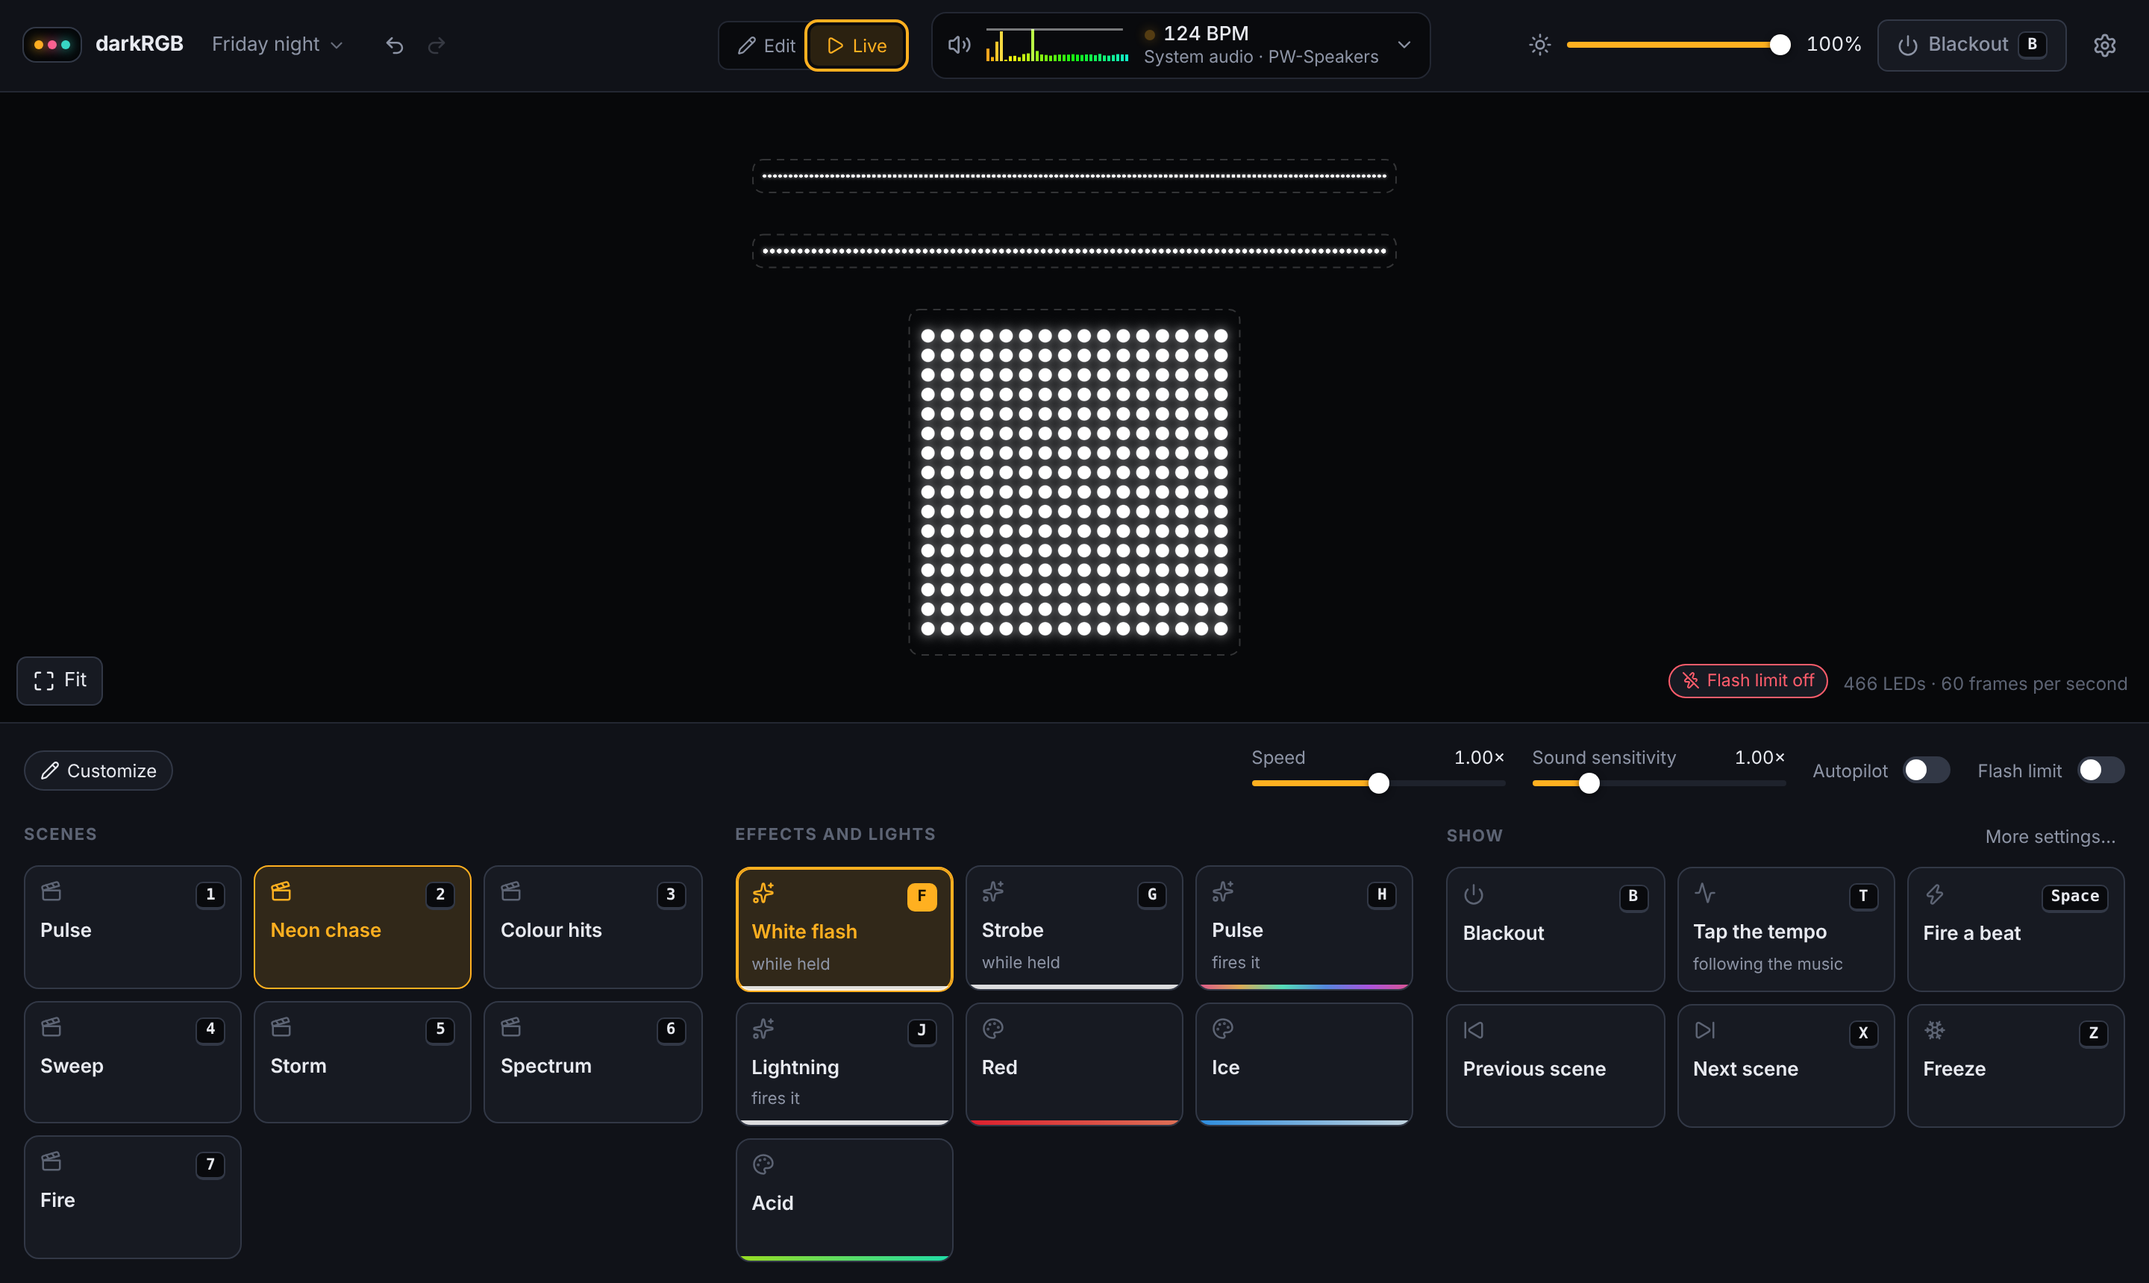
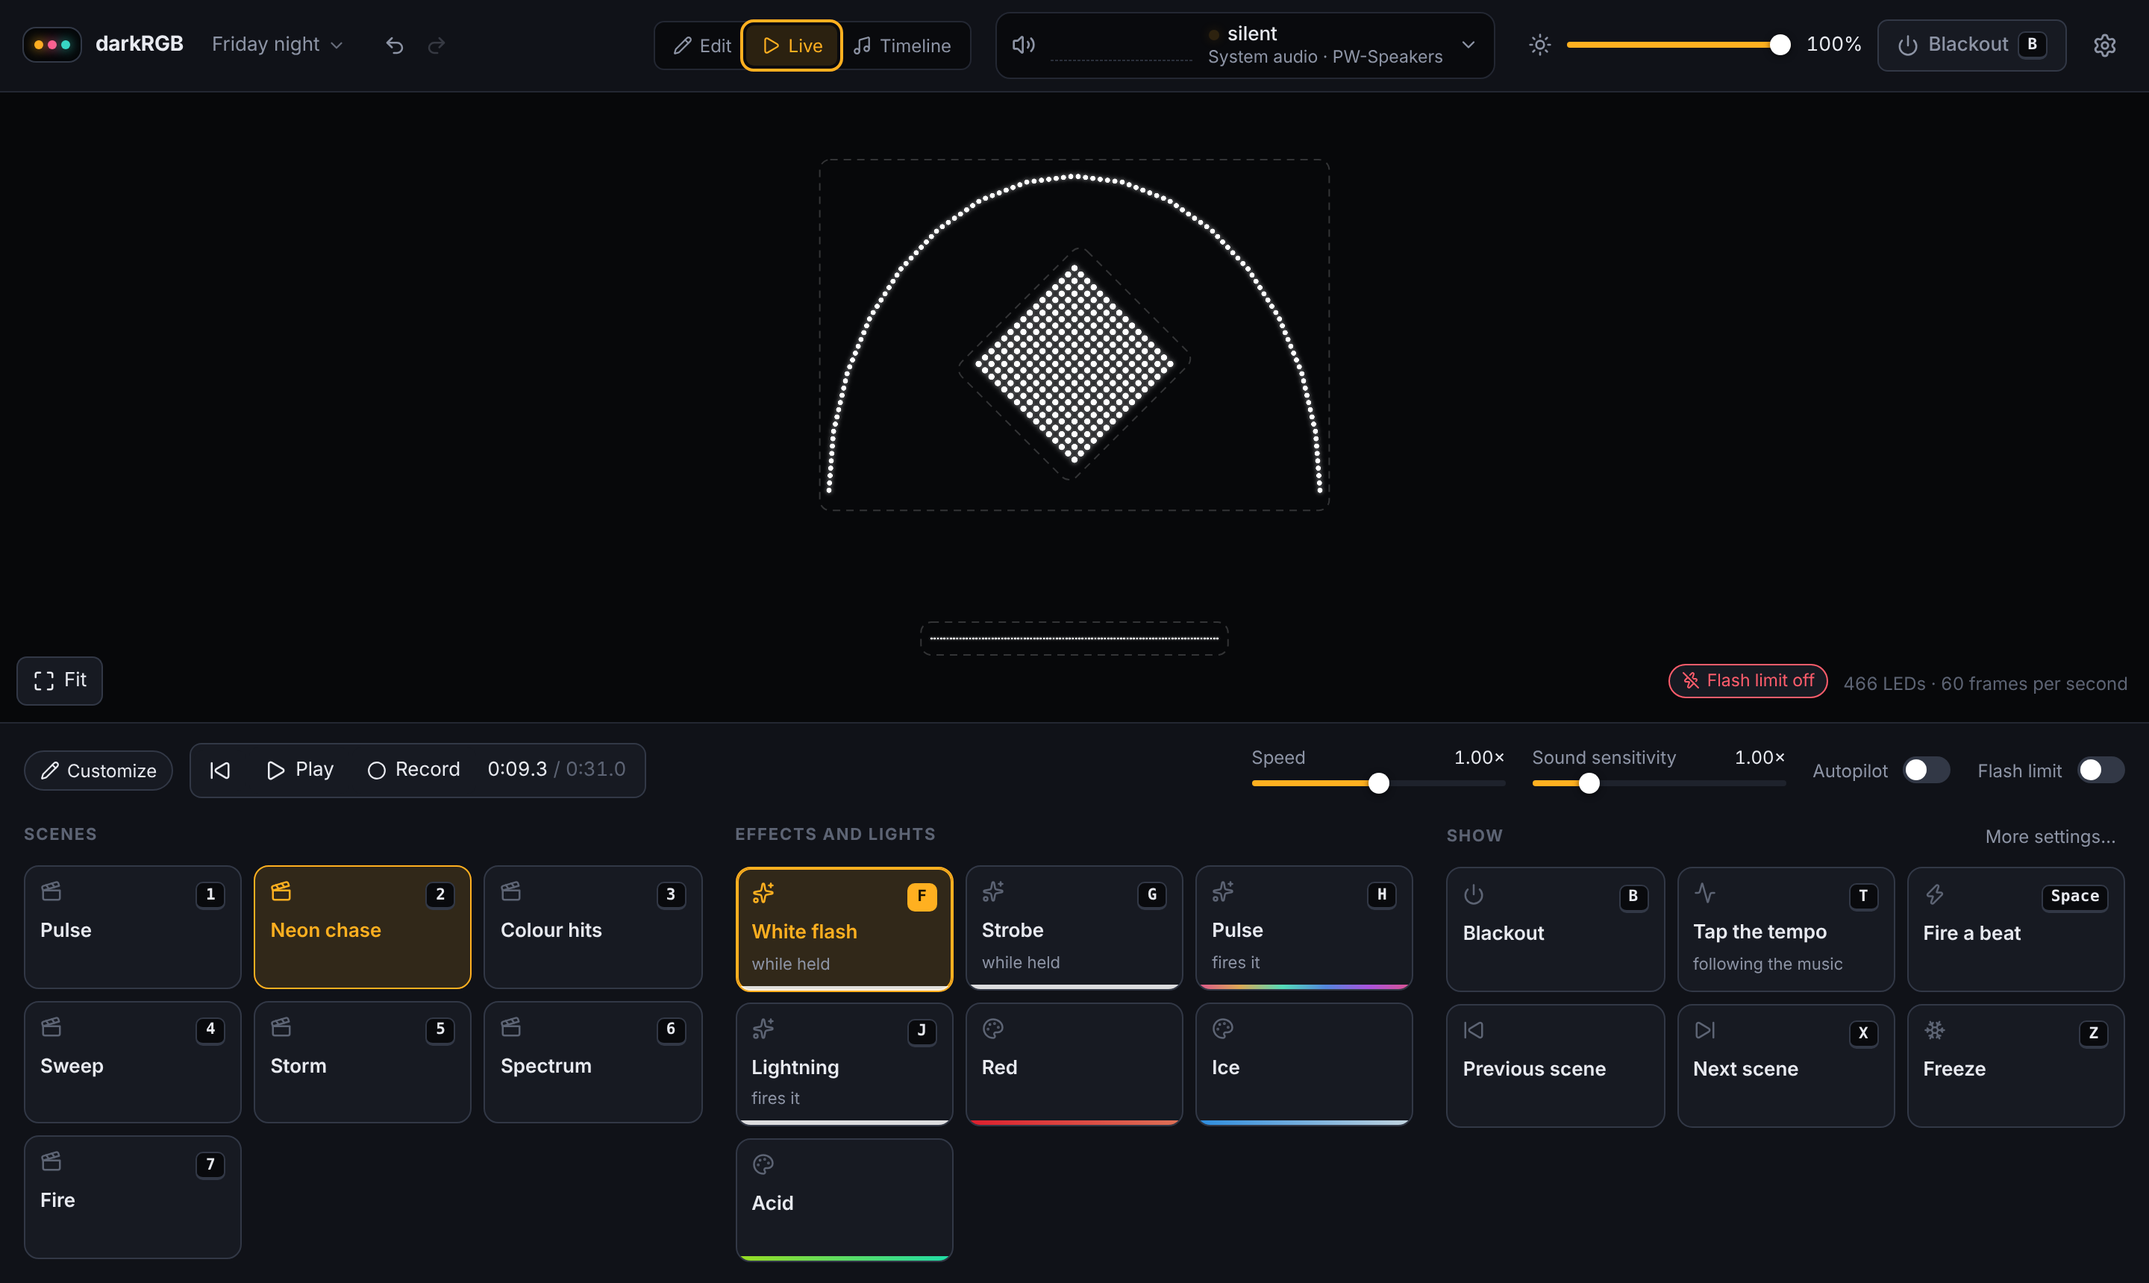
Docs for 0.7.0: timeline, shapes, turning patterns, the outside review

diff --git a/docs/architecture.md b/docs/architecture.md
@@ -85,7 +85,18 @@ Its speed on a real graphics card is not measured.
 - A **group of lights** collects fixtures under a name. A layer can target a group, so lights added to the
   group later are included; a group has its own brightness and on/off switch, applied after the layers are
   mixed. A fixture is in one group or none. Built.
+- A strip can be **bent** (`Fixture.path`): it passes through corners given as places in its box, from (0, 0)
+  to (1, 1), and its LEDs are spread evenly by distance along the line, which may close on itself. The box
+  resizes and turns like a matrix's. Drawn on each light by itself, an effect still runs along the strip;
+  drawn across the lights, it is drawn across the shape.
 - Effects render in layout space, so one effect can sweep across fixtures on different devices.
+- A layer's pattern can be **turned** (`Layer.angle`, `Layer.spin`, and a link to `angle`). The renderer
+  turns each light's place in the pattern about the middle and rescales, so the pattern's width and height
+  become the extent of the lights along the turned axes: every light still lands inside the pattern, and no
+  effect sees a place outside 0..1. A line of lights has one direction only and is left alone.
+- Drawn on each light by itself, a pattern on a matrix is turned back by as much as the matrix is turned on
+  the canvas, so it stays the right way up in the room: turning a matrix on the canvas says how it hangs.
+  `Layer.turns` gives the older behaviour, the pattern turning with the light.
 - The user never sees universe or channel numbers. The engine derives packets from the layout.
 
 ### Clips, layers and modulators
@@ -390,7 +401,7 @@ Built. One WebSocket per client at `/ws`; the engine also serves the UI over HTT
 | text `state` | The whole show, and which scene is playing unchanged. On connect and after every change. |
 | text `audio` | Audio features, 30 times a second. |
 | text `status` | Frame rate, whether the flash limit held anything back, per-device send counts, audio status, discovered devices. Once a second. |
-| text `live` | Pads being held, a scene waiting for the beat, the tapped tempo, whether the picture is frozen. On every change. |
+| text `live` | Pads being held, a scene waiting for the beat, the tapped tempo, whether the picture is frozen, and where the timeline is. On every change, and once a second while a timeline plays. |
 | text `library` | The shows on this computer and which is open; the effects, looks and palettes that have been kept. On connect and on change. |
 | text `result` | Outcome of a command that carried a request number, `req`, which it repeats. |
 | binary, first byte 1 | Preview colours: RGB per pixel, 30 times a second. |
@@ -405,9 +416,38 @@ needs no UI code.
 A command either changes the show or it does nothing: `commands::apply` works on a copy, checks the limits
 on the result, and only then swaps it in.
 
-One thing goes over plain HTTP: opening a show file (`POST /api/import`), because a whole show does not fit in
-a WebSocket message. It gets the same checks as a show file read from disk, and the same checks on who is
-asking, with the `Origin` header required.
+Two things go over plain HTTP because they do not fit in a WebSocket message. Opening a show file
+(`POST /api/import`) gets the same checks as a show file read from disk. A timeline's song goes up with
+`POST /api/song?name=...` and comes back with `GET /api/song/<file>`; the engine names the file after its
+contents and serves only names of that form, so the route cannot be made to read anything else. Both posts
+get the same checks on who is asking, with the `Origin` header required.
+
+### The timeline
+
+`Show.timeline` holds a song's name, a length, a beat grid (tempo and first beat) and **clips**. A scene clip
+says "from here, this scene"; a pad clip says "from here to there, this pad is held". There is no third
+kind: anything that can be played live can be written down, and nothing new had to be invented to play it
+back.
+
+- **Nothing remembers where playback is.** `Timeline::at(t)` answers "which scene, which pads?" from the
+  clips alone. Each frame the engine asks it and applies the answer in `Live::overlay`, exactly as it applies
+  held keys and the scene for silence: over a copy, leaving the saved show untouched. Starting anywhere,
+  jumping and repeating therefore need no special cases, and stopping gives the show back as it was.
+- A pad that sets something off (a fired effect, a beat by hand) does so on the frame its clip begins.
+- **The clock is the engine's** (`Transport` in `live.rs`), but the song is played by the app window, which
+  fetches it whole and plays it from memory. Four times a second the window says where the song is; a
+  difference of more than 30 ms moves the engine's clock. Sound being late is noticed and lights moving a
+  little are not, so the lights follow the sound. A jump the engine makes goes the other way: the window
+  moves the song. The engine hears the song through the same system-audio capture as any other music, so
+  reactive effects react to it.
+- **Recording** writes clips as things are played while the timeline runs. A held pad's clip grows until it
+  is let go. A pad that switches something is, while recording, on from one press to the next: it is not
+  really switched, or it would be switched twice over, once by the press and once by its own clip. A scene
+  chosen is written as a clip and shown by the timeline; the show underneath is not changed.
+- Clips go when their scene or pad goes (`Show::prune_bindings`).
+- The window draws the song's outline and guesses a tempo from it (`ui/src/songPlayer.ts`): how strongly
+  rises in loudness repeat at each spacing from 70 to 180 beats a minute. It is a starting point, with
+  halve, double and "beat here" beside it.
 
 ### Who may connect
 

diff --git a/docs/roadmap.md b/docs/roadmap.md
@@ -1,6 +1,6 @@
 # Roadmap
 
-Written on 2026-11-10, last updated 2026-11-12 for version 0.6.0. Order: audio-reactive first, then live control, then the timeline, then yard-scale
+Written on 2026-11-10, last updated 2026-11-12 for version 0.7.0. Order: audio-reactive first, then live control, then the timeline, then yard-scale
 features. The design targets room/desk setups (a few WLED devices, up to a few thousand pixels) and house/yard
 shows (many controllers, 5k to 50k pixels). See [architecture.md](architecture.md) for the design.
 
@@ -124,10 +124,31 @@ Done when a full song can be performed from the keyboard without touching the mo
 
 ## 3. Timeline
 
-- Import a song; show its waveform and an automatic beat grid.
-- Clips on layers with trim, move and snap to beats.
-- Curves on parameters.
-- Record a live performance into the timeline.
+Built in 0.7.0:
+
+- A song chosen from a file, kept by the engine, played by the app window; its outline drawn, and a tempo
+  and first beat guessed from it for a grid.
+- A lane for scenes and a lane for every pad. Clips are placed, moved, stretched, picked several at a time
+  and deleted, and snap to beats, halves or quarters.
+- Recording: scenes chosen and pads pressed while the timeline plays become clips.
+- Play, stop, jump, repeat. The engine works out what should be on from the clips alone each frame, so a
+  jump or a repeat needs nothing special.
+- The lights follow the song: the window playing it tells the engine where it is.
+
+Left:
+
+- Curves on settings (a slider drawn over time). Today a timeline can only say which scene shows and which
+  pads are held.
+- Seeing the look at the playhead while stopped. Today the timeline acts only while it plays.
+- Copy, paste and repeat of clips; a split tool; markers; more than one song in a show; a playlist.
+- Playing the song without the app window open (the engine does not decode sound itself), and so running a
+  timeline from a schedule with nobody there.
+- Exporting to `.fseq` for a Falcon Player.
+- The song's own start is where a person lines it up: there is no fine offset between song and lights
+  beyond the show's light delay.
+
+Tried with a 31-second synthetic song in a browser and in the app window on Linux. Not yet tried with real
+music, a long song, MP3 on a Linux system without the codecs, or on Windows.
 
 Done when a three-minute show can be recorded live, cleaned up in the editor and played back in sync.
 
@@ -143,6 +164,8 @@ Built:
 
 Left:
 
+- Strips bent into shapes (0.7.0 has arches, rings, stars, zigzags and hand-drawn paths; not yet matrices of
+  odd shapes, or a tree as one model).
 - Import an xLights layout.
 - Export `.fseq` v2 and upload to FPP.
 - 3D preview.
@@ -158,6 +181,38 @@ Left:
 - Ableton Link tempo sync.
 - Hue, OpenRGB and other device families.
 - macOS build.
+
+## An outside review of 0.6.0
+
+On 2026-11-12 an independent reviewer was given the repository and asked what keeps this from being a truly
+good audio-reactive and live tool. It could read everything and run nothing. Its ranked findings, and where
+each stands after 0.7.0:
+
+1. **The beat clock.** Lights are always a little late and nothing fires early to make up for it; bars are
+   counted from whenever listening began, not from beat one; when the music breaks down the tempo is lost
+   and every onset becomes a "beat"; the tracker can lock at double time; tap tempo replaces the music's
+   tempo and then drifts; there is no nudge, no halving or doubling, no beat display, no MIDI clock or
+   Ableton Link. **Not addressed. This is the first job of the next round.**
+2. **Effects and tempo.** Most speeds were in seconds, not beats; no mirror, repeat or kaleidoscope for any
+   effect; links have one wave shape and no smoothing; colour cannot be modulated; no pitch-to-colour; the
+   section detector judges by loudness alone and is reset by a short silence. *Partly addressed:* seven of
+   the eight new effects count in beats, and scanner, theatre chase (Marquee), breathe and falling peaks
+   were among the staples it named. The rest stands.
+3. **Nothing has met real hardware or real music.** Stands, and only the owner can change it.
+4. **The outdoor display audience was promised a timeline that did not exist,** and shapes were only straight
+   strips and rectangles. *Addressed in part:* 0.7.0 has a timeline and bent strips. Still missing: xLights
+   import, FSEQ export, a calendar, power limiting by current, colour orders and start channels for sACN.
+5. **The live model is shallow next to a console.** A scene replaces everything; no cue list; MIDI ignores
+   velocity and gives no feedback; no DMX fixtures. Stands.
+6. **Output under load.** All sends are on the render thread through one socket, and a full buffer drops the
+   rest of a device's universes for that frame; no sACN or Art-Net sync; no latency offset for each device;
+   8-bit output with no dithering, so slow dim fades will step. Stands.
+7. **Unattended reliability.** A panic in an effect would stop the show silently; no autostart; no
+   stream-terminated packet on exit; the flash limit judges the whole picture. Stands.
+
+It also advised: stop adding features until a real device and real music have been through the loop; call
+autopilot's "bars" what they are (four beats from an arbitrary start) until there is a downbeat; reconsider
+dimming quiet parts by default for live shows.
 
 ## Before the first public release
 

diff --git a/README.md b/README.md
@@ -6,7 +6,7 @@ between them:
 - **Audio-reactive:** lights follow whatever the computer is playing, with no audio routing setup.
 - **Live:** trigger effects, colours and scenes from the keyboard, a touch screen, a phone or a MIDI controller,
   like a lighting console.
-- **Timeline:** pre-programmed shows synced to a song (not started yet).
+- **Timeline:** shows laid out in time against a song, placed by hand or recorded by performing them.
 
 It sends to ESP32 controllers running [WLED](https://kno.wled.ge/), and to pixel controllers that take sACN
 (E1.31) or Art-Net.
@@ -29,9 +29,14 @@ Or start blank. The kind of show only decides what it begins with; everything ca
 
 ## Status
 
-Version 0.6.0, in development. Audio-reactive mode and live control are both complete enough to run a show
-with: fifteen starter scenes, twenty-two effects, pads, keys and MIDI controllers, autopilot, any slider tied
-to the music, and undo. The timeline is not started.
+Version 0.7.0, in development. Audio-reactive mode and live control are both complete enough to run a show
+with: fifteen starter scenes, thirty effects, pads, keys and MIDI controllers, autopilot, any slider tied to
+the music, and undo. The timeline is new in this version: it plays, records and edits, and has not yet been
+used for a whole show by anyone.
+
+**Nothing here has yet met real LEDs or real music.** Every check so far used simulated devices and a
+synthetic test song. An outside review of 0.6.0 put that first among its concerns; see
+[docs/roadmap.md](docs/roadmap.md).
 
 | | Linux | Windows |
 |---|---|---|
@@ -42,6 +47,7 @@ to the music, and undo. The timeline is not started.
 | sACN and Art-Net | packets checked against the standards and received by a test program; no real controller yet | the same code; not yet run |
 | MIDI controllers | built, and its message handling tested; not yet tried with a real controller | the same |
 | Installers | `.deb` and AppImage build | the setup program has not been built yet |
+| Timeline | plays against a song in a browser and in the app window; recording and editing checked | not yet run |
 
 The effects, the song-energy tracking and the drop detection have only met synthetic test songs so far, so
 expect them to need tuning against real music. See [docs/roadmap.md](docs/roadmap.md) for the details.
@@ -61,7 +67,14 @@ What works today:
 - A simple layout by default, and a full one with every control, switched by one setting.
 - Captures system audio with no setup and analyses it: loudness, 32 frequency bands, hits in bass, mids and
   highs, tempo and beats, how big this part of the song is, and when the song moves to a new section.
-- Twenty-two effects in layers, among them words and small pictures for matrices. Each can play on all lights, chosen ones, a group, or only strips or only
+- Thirty effects in layers, among them words and small pictures for matrices. Many keep time with the music:
+  a scanner crosses in a beat, tiles reshuffle on the beat, rings leave the middle one a beat.
+- A pattern can be turned to any angle and set spinning, and the angle can follow the music. A matrix hung
+  at an angle, such as a square mounted as a diamond, keeps its pattern the right way up.
+- Strips can be bent into shapes: arches, circles, stars, zigzags, outlines, or anything drawn corner by
+  corner.
+- A timeline: a song, a lane for scenes and a lane for every pad. Clips are placed by hand, snapping to the
+  beat, or recorded by playing the show while the song runs. Each can play on all lights, chosen ones, a group, or only strips or only
   matrices; drawn across them or once per light; reacting to everything, bass, mids, highs or a frequency
   range you pick.
 - Any slider can follow the music (loudness, bass, mids, highs, the beat, hits, the song's energy), a slow
@@ -99,6 +112,20 @@ The full layout, with a slider following the bass, and what has been kept for an
 ![The full layout: an effect's strength follows the bass](docs/images/full.png)
 
 ![Effects, looks and palettes kept in the library](docs/images/kept.png)
+
+The timeline, with a song, scenes and pads on it:
+
+![The timeline playing: a song's outline, scene clips and pad clips](docs/images/timeline.png)
+
+A strip bent into an arch over a matrix hung as a diamond, and the shape editor:
+
+![An arch of lights over a diamond-mounted matrix whose words stay level](docs/images/shapes.png)
+
+![The shape editor with a star drawn from ten corners](docs/images/shape.png)
+
+The eight effects added in 0.7.0:
+
+![Scanner, Marquee, Breathe, Peaks, Fireworks, Rings, Pinwheel and Tiles](docs/images/effects-new.png)
 
 A picture on a matrix, and adding a pixel controller that is not WLED:
 

diff --git a/CHANGELOG.md b/CHANGELOG.md
@@ -1,6 +1,28 @@
 # What's new
 
-## 0.6.0 (in development)
+## 0.7.0 (in development)
+
+A timeline, shapes of your own, patterns that turn, and eight more effects.
+
+- A timeline, in a third view beside Edit and Live. Choose a song; its outline is drawn and its tempo guessed
+  for a beat grid. Click the Scenes lane to say which scene starts where. Drag in a pad's lane to hold that
+  pad there: a flash, a strobe, a colour, a blackout. Clips move, stretch, snap to the beat and delete.
+- Record a performance: press Record and Play, then choose scenes and press pads as the song runs. Everything
+  is written onto the timeline to tidy up afterwards. Play and Record are in the Live view too.
+- A timeline can repeat, for a show left running.
+- Strips can be bent into shapes. Pick an arch, circle, square, triangle, star, zigzag or spiral, or draw
+  your own corner by corner. Select a strip and choose Shape.
+- Patterns can be turned: every effect has an Angle, and in the full layout a Spin. The angle can follow the
+  music or a fader.
+- A matrix hung at an angle, such as a square mounted as a diamond, now keeps its pattern the right way up.
+  Turn the matrix on the stage to match how it hangs. (A switch puts back the old behaviour, where the
+  pattern turned with the light.)
+- Eight new effects, thirty in all: Scanner, Marquee, Breathe, Pinwheel, Peaks (bars with caps that hang
+  and fall), Fireworks, Rings and Tiles. Most can keep time with the music.
+- Fixed: lights flickered while being dragged on the stage.
+- Fixed: a jump on the timeline while stopped did not show until playback started.
+
+## 0.6.0
 
 Controllers, a phone as a remote, words and pictures, more kinds of lights, and installers.
 
